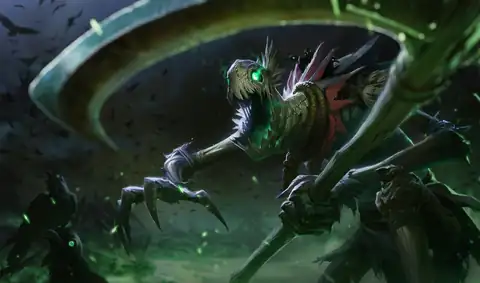
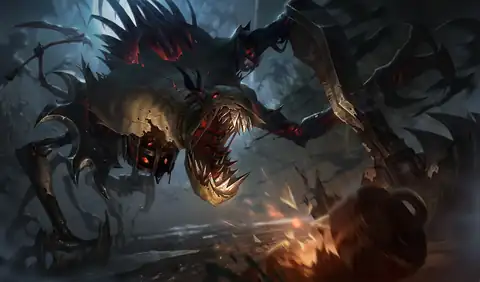
Lore: updated Fiddlesticks splash art
Claude-Session: https://claude.ai/code/session_01VquMsaJCgK2WV8Fb9ayyK8

diff --git a/tools/lore-gallery/build.py b/tools/lore-gallery/build.py
@@ -26,7 +26,7 @@ import urllib.request
 from PIL import Image
 
 sys.path.insert(0, os.path.dirname(__file__))
-from groups import CREATURE_CARDS, CREATURE_CHAMPS, FORCE_REGION, GROUPS, MOVES, PULL, UNI_CREATURES, UNI_MODULE_TITLES, UNI_PEOPLE, UNI_TITLES, WIKI_PICKS  # noqa: E402
+from groups import CREATURE_CARDS, CREATURE_CHAMPS, FORCE_REGION, GROUPS, MOVES, PULL, UNI_CREATURES, UNI_MODULE_TITLES, UNI_PEOPLE, UNI_TITLES, UNIVERSE_SPLASH, WIKI_PICKS  # noqa: E402
 
 ROOT = os.path.abspath(os.path.join(os.path.dirname(__file__), '..', '..'))
 OUT_IMG = os.path.join(ROOT, 'assets', 'lore-gallery')
@@ -239,7 +239,7 @@ def load_champions():
         full = json.load(open(get(f'{base}pt_br/champions/{slug}/index.json', os.path.join(CACHE, 'champ-pt', slug + '.json')), encoding='utf-8'))['champion']
         short = re.sub(r'\s+', ' ', re.sub(r'<[^>]+>', ' ', (full.get('biography') or {}).get('short') or '')).strip()
         did = dd_id.get(plain(re.sub(r'[^A-Za-z0-9]', '', c['name'])))
-        url = f'https://ddragon.leagueoflegends.com/cdn/img/champion/splash/{did}_0.jpg' if did else (c.get('image') or {}).get('uri', '').split('?')[0]
+        url = f'https://ddragon.leagueoflegends.com/cdn/img/champion/splash/{did}_0.jpg' if did and slug not in UNIVERSE_SPLASH else (c.get('image') or {}).get('uri', '').split('?')[0]
         title = (dd_pt.get(did) or {}).get('title') or ''
         out.append(dict(slug=slug, en=c['name'], pt=pt['name'], title=title, short=short, faction=c.get('associated-faction-slug') or 'unaffiliated', url=url))
     return out

diff --git a/tools/lore-gallery/groups.py b/tools/lore-gallery/groups.py
@@ -625,3 +625,6 @@ WIKI_PICKS = [
     ("K'Sante_Everything_We_Should_Have_Said.jpg", 'nazumah', 'ksante', "K'Sante e Tope: tudo o que devíamos ter dito"),
     ("K'Sante_OriginalSkin.jpg", 'nazumah', 'ksante', "K'Sante, o Orgulho de Nazumah"),
 ]
+
+# Champions whose ddragon splash is outdated: use the current art from the Universe champion page.
+UNIVERSE_SPLASH = {'fiddlesticks'}
